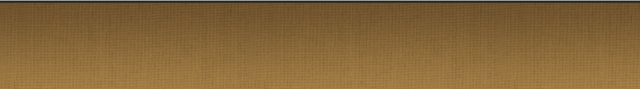
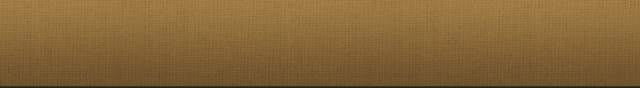
Added title to WebViewController

diff --git a/WebViewController.m b/WebViewController.m
@@ -16,17 +16,26 @@
 @synthesize theURL = _theURL;
 @synthesize theTitle = _theTitle;
 @synthesize theToolbar = _theToolbar;
+@synthesize toolbarLabel = _toolbarLabel;
+@synthesize toolbarLabelView = _toolbarLabelView;
 
 - (void)viewDidLoad
 {
     [super viewDidLoad];
 	// Do any additional setup after loading the view.
     //self.navigationItem.title = _theTitle;
+    _toolbarLabel.text = _theTitle;
+    [_toolbarLabel setTextColor:[UIColor colorWithRed:(43/255.0) green:(36/255.0) blue:(19/255.0) alpha:1.0]];
+    [_toolbarLabel setShadowColor:[UIColor colorWithRed:(190/255.0) green:(155/255.0) blue:(101/255.0) alpha:1.0]];
+    [_toolbarLabel setShadowOffset:CGSizeMake(0.0f, 1.0f)];
+    [_toolbarLabel setFont:[UIFont fontWithName:@"MuseoSans-700" size:20.0f]];
+    [_toolbarLabel setBackgroundColor:[UIColor clearColor]];
+    [_toolbarLabelView setBackgroundColor:[UIColor clearColor]];
     NSURLRequest *requestObject = [NSURLRequest requestWithURL:_theURL];
     [self.webView loadRequest:requestObject];
     NSLog(@"Loading: %@", _theURL);
     
-    [_theToolbar setBackgroundImage:[UIImage imageNamed:@"nav_bar.png"] forToolbarPosition:UIToolbarPositionAny barMetrics:UIBarMetricsDefault];
+    [_theToolbar setBackgroundImage:[UIImage imageNamed:@"toolbar.png"] forToolbarPosition:UIToolbarPositionAny barMetrics:UIBarMetricsDefault];
         
 //    UIBarButtonItem *barButton = [[UIBarButtonItem alloc] initWithImage:[UIImage imageNamed:@"action.png"] style:UIBarButtonItemStyleBordered target:self action:@selector(openInSafari:)];
     

diff --git a/WebViewController.h b/WebViewController.h
@@ -18,5 +18,7 @@
 - (IBAction)doneButtonPressed:(UIBarButtonItem *)sender;
 
 @property (weak, nonatomic) IBOutlet UIToolbar *theToolbar;
+@property (weak, nonatomic) IBOutlet UILabel *toolbarLabel;
+@property (weak, nonatomic) IBOutlet UIView *toolbarLabelView;
 
 @end
